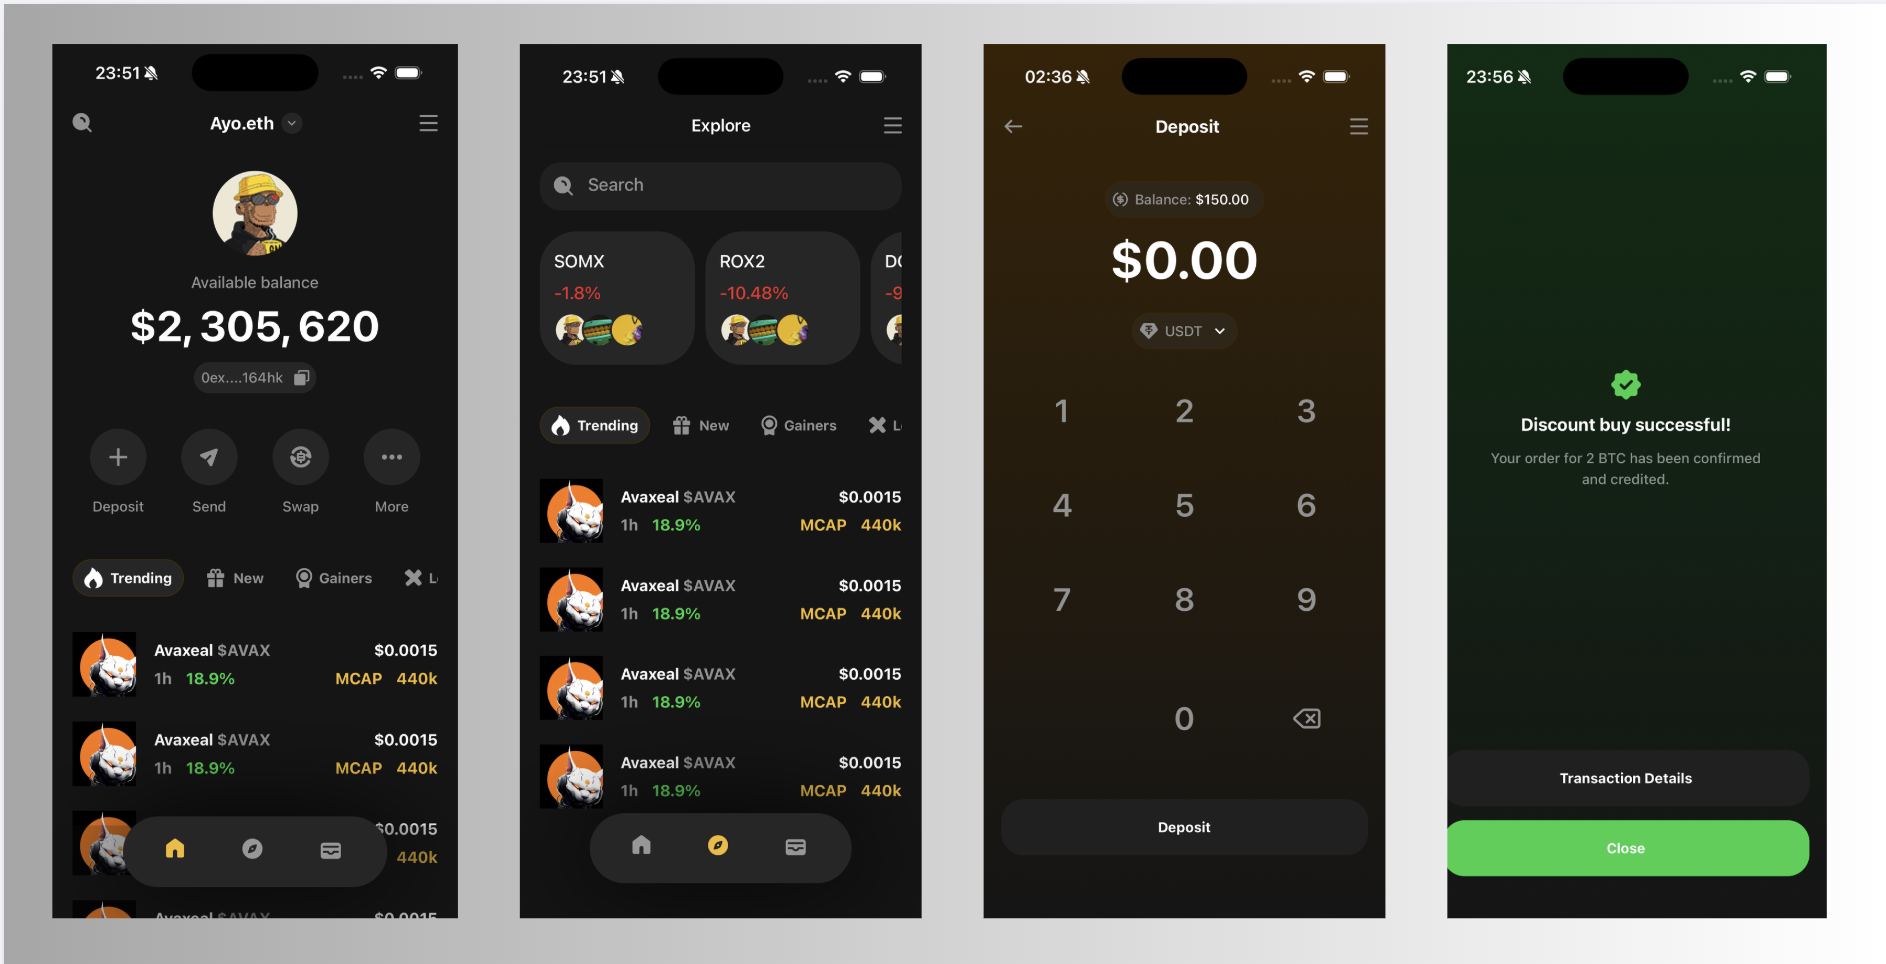
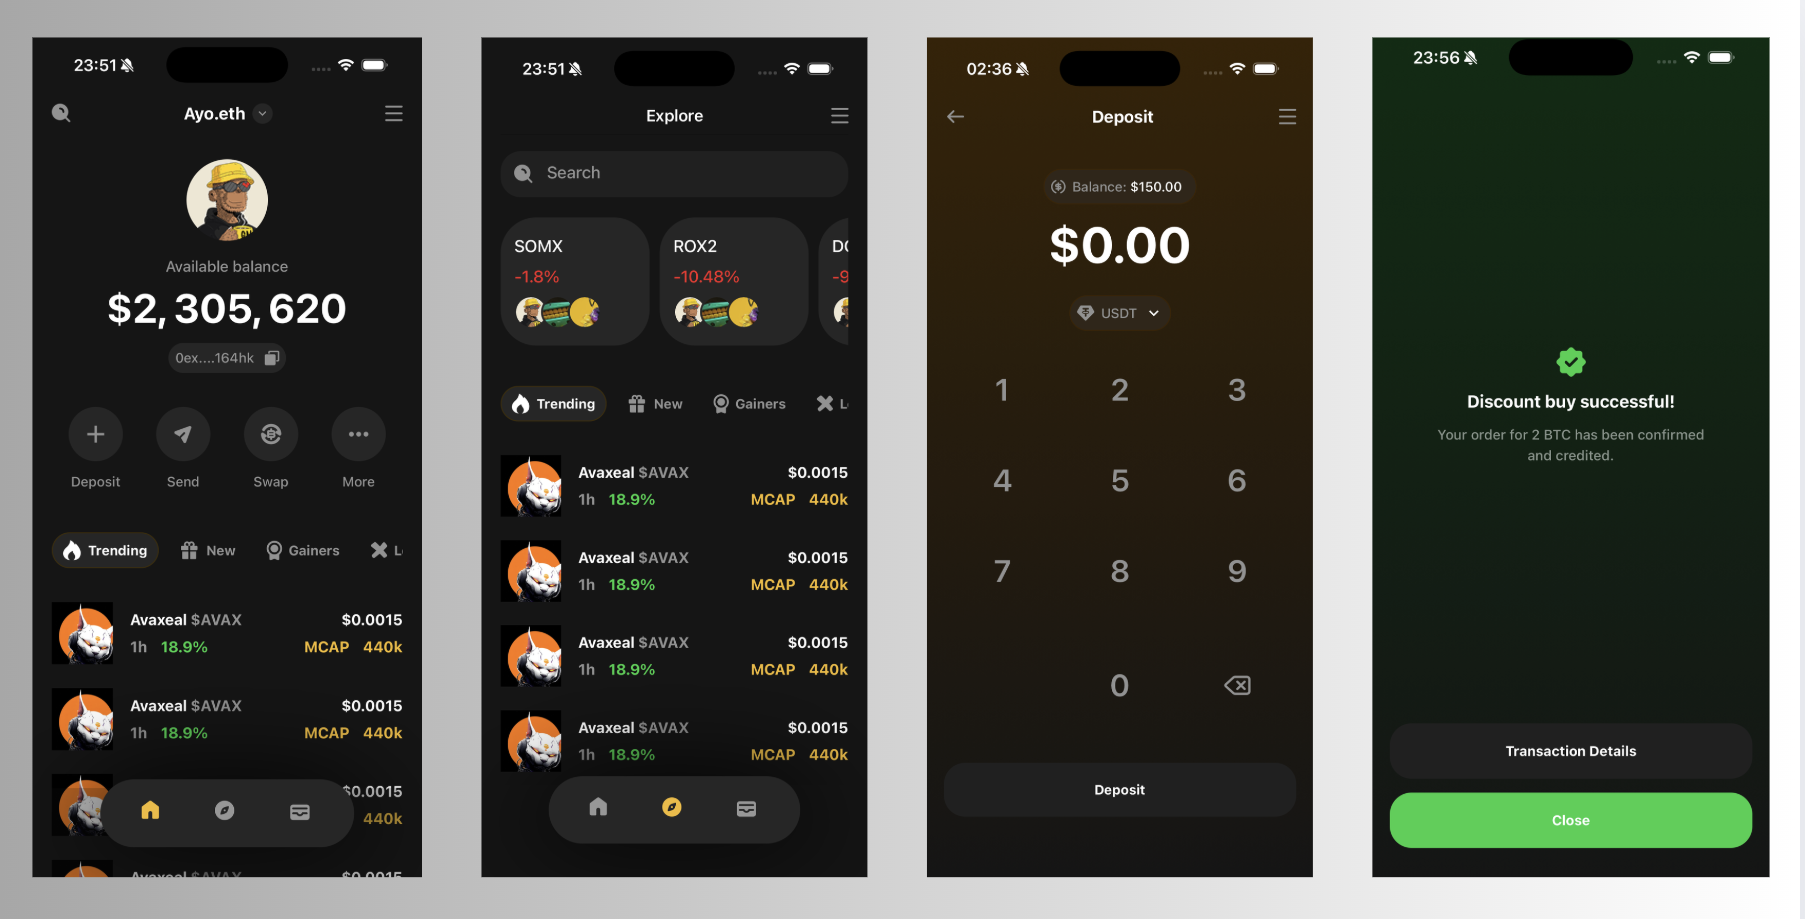
chore: change screenshots

diff --git a/app/keyboard.tsx b/app/keyboard.tsx
@@ -4,7 +4,7 @@ import USDT from '@/assets/icons/USDT';
 import Keytab from '@/components/keytab';
 import Button from '@/components/ui/button';
 import PageTitle from '@/components/ui/page-title';
-import { formatCurrency } from '@/utils/helpers';
+import { formatCurrency, paddingTop } from '@/utils/helpers';
 import { MaterialCommunityIcons } from '@expo/vector-icons';
 import { LinearGradient } from 'expo-linear-gradient';
 import React, { useState } from 'react';
@@ -21,7 +21,7 @@ const Keyboard = () => {
         : 'short';
 
   return (
-    <View className='flex-1 px-5 pb-16 pt-20'>
+    <View className={`flex-1 px-5 pb-16 pt-${paddingTop}`}>
       <LinearGradient
         colors={['#372204', '#151515']}
         style={styles.background}
@@ -35,11 +35,13 @@ const Keyboard = () => {
             Balance: <Text className='text-white'>$150.00</Text>
           </Text>
         </View>
-        <Text
-          className={`font-bold my-6 text-white  ${size === 'short' && 'text-6xl'} ${size === 'medium' && 'text-4xl'} ${size === 'long' && 'text-3xl'}`}
-        >
-          ${amount.length > 0 ? formatCurrency(amount) : formatCurrency('0')}
-        </Text>
+        <View className='h-[8vh] my-2 justify-center'>
+          <Text
+            className={`font-bold   text-white  ${size === 'short' && 'text-6xl'} ${size === 'medium' && 'text-4xl'} ${size === 'long' && 'text-3xl'}`}
+          >
+            ${amount.length > 0 ? formatCurrency(amount) : formatCurrency('0')}
+          </Text>
+        </View>
         <View className='flex-row items-center  bg-[#302618] border-[#3D2401] border-[1px] p-2 rounded-[21px]'>
           <USDT />
           <Text className='px-2 text-gray500 font-medium text-base'>USDT</Text>
@@ -53,9 +55,7 @@ const Keyboard = () => {
 
       <Keytab amount={amount} setAmount={setAmount} />
 
-      <View>
-        <Button mode='flat'>Deposit</Button>
-      </View>
+      <Button mode='flat'>Deposit</Button>
     </View>
   );
 };

diff --git a/components/ui/page-title.tsx b/components/ui/page-title.tsx
@@ -1,7 +1,7 @@
 import Back from '@/assets/icons/back';
 import { useRouter } from 'expo-router';
 import React, { ReactNode } from 'react';
-import { Pressable, Text } from 'react-native';
+import { Pressable, Text, View } from 'react-native';
 
 interface PageTitleI {
   title: string;
@@ -11,14 +11,13 @@ interface PageTitleI {
 const PageTitle = ({ title, rightSection }: PageTitleI) => {
   const router = useRouter();
   return (
-    <Pressable
-      onPress={() => router.back()}
-      className='flex-row items-center justify-between'
-    >
-      <Back />
+    <View className='flex-row items-center justify-between'>
+      <Pressable onPress={() => router.back()}>
+        <Back />
+      </Pressable>
       <Text className='font-bold text-white text-xl'>{title}</Text>
       {rightSection}
-    </Pressable>
+    </View>
   );
 };
 

diff --git a/app/discount-buy.tsx b/app/discount-buy.tsx
@@ -2,13 +2,14 @@ import Info from '@/assets/icons/info';
 import FinalStep from '@/components/discount/final-step';
 import SecondStep from '@/components/discount/second-step';
 import PageTitle from '@/components/ui/page-title';
+import { paddingTop } from '@/utils/helpers';
 import React, { useState } from 'react';
 import { View } from 'react-native';
 
 const DiscountBuyScreen = () => {
   const [step, setStep] = useState(1);
   return (
-    <View className='flex-1  pt-20 bg-primary '>
+    <View className={`flex-1 pt-${paddingTop} bg-primary`}>
       <View className='px-4'>
         <PageTitle title='Discount Buy' rightSection={<Info />} />
       </View>

diff --git a/app/(tabs)/_layout.tsx b/app/(tabs)/_layout.tsx
@@ -5,7 +5,7 @@ import Home from '@/assets/icons/Home';
 import FloatingTabBar from '@/components/ui/floating-bar';
 import { Tabs } from 'expo-router';
 import React from 'react';
-import { StatusBar } from 'react-native';
+import { Platform, StatusBar } from 'react-native';
 
 const TabsLayout = () => {
   return (
@@ -32,7 +32,7 @@ const TabsLayout = () => {
           options={{
             headerShown: false,
             sceneStyle: {
-              paddingTop: 70,
+              paddingTop: Platform.OS === 'android' ? 50 : 70,
               backgroundColor: '#151515',
               paddingHorizontal: 20,
               flex: 1,

diff --git a/components/discount/second-step.tsx b/components/discount/second-step.tsx
@@ -108,7 +108,7 @@ const SecondStep = ({ onNext }: { onNext: () => void }) => {
         </View>
       </View>
 
-      <View className='bg-gray400 pb-4 flex-1 rounded-tl-[33px] rounded-tr-[33px] px-10 py-3'>
+      <View className='bg-gray400 pb-10 flex-1 rounded-tl-[33px] rounded-tr-[33px] px-10 py-3'>
         <View className='flex-row items-center gap-3 mb-6 mt-6'>
           <Text className='font-bold text-white'>
             Explore Potential Gains (Simulation)

diff --git a/utils/helpers.ts b/utils/helpers.ts
@@ -1,3 +1,5 @@
+import { Platform } from 'react-native';
+
 export const formatCurrency = (value: string) => {
   const num = Number(value);
 
@@ -8,3 +10,5 @@ export const formatCurrency = (value: string) => {
     maximumFractionDigits: 2,
   });
 };
+
+export const paddingTop = Platform.OS === 'ios' ? 20 : 16;

diff --git a/README.md b/README.md
@@ -21,6 +21,7 @@ Converted a figma design into a pixel perfect mobile application that works on i
 ## Screenshots
 
 ![App Screenshot](/assets//images//web3.png)
+![App Screenshot](/assets//images//web3_2.png)
 
 ## 🚀 About Me
 
